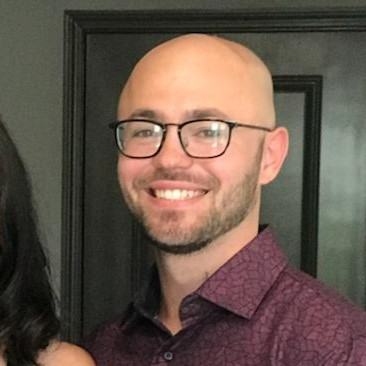
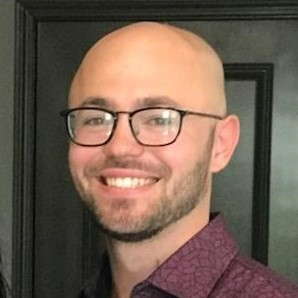
new prof and insta

diff --git a/index.html b/index.html
@@ -110,19 +110,10 @@
     <img src="https://images.unsplash.com/photo-1508020268086-b96cf4f4bb2e?ixlib=rb-1.2.1&ixid=MnwxMjA3fDB8MHxwaG90by1wYWdlfHx8fGVufDB8fHx8&auto=format&fit=crop&w=1170&q=80" alt="bg" />
     <section>
         <div>
-            <img <src="/assets/profile.jpg" alt="profile"/>
-            <!-- <img src="https://media-exp1.licdn.com/dms/image/C5603AQG6Q4W3kWANtw/profile-displayphoto-shrink_400_400/0/1630988410582?e=1664409600&v=beta&t=rzwP6ibNcFMEpPJDePHLeQFAvjVMJKDlq8NmBftI9Xw" alt="dp" /> -->
+            <img src="assets/profile.jpg" alt="dp" />
             <h2>🚀 Miller McSwain 🚀</h2>
             <div>
-                <a href="https://www.linkedin.com/in/jamezmcarthur/">
-                    <i class="fa-brands fa-linkedin"></i>
-                    <p>LinkedIn</p>
-                </a>
-                <a href="">
-                    <i class="fa-brands fa-tiktok"></i>
-                    <p>Tiktok</p>
-                </a>
-                <a href="">
+                <a href="https://www.instagram.com/millermcswain/">
                     <i class="fa-brands fa-instagram"></i>
                     <p>Instagram</p>
                 </a>
